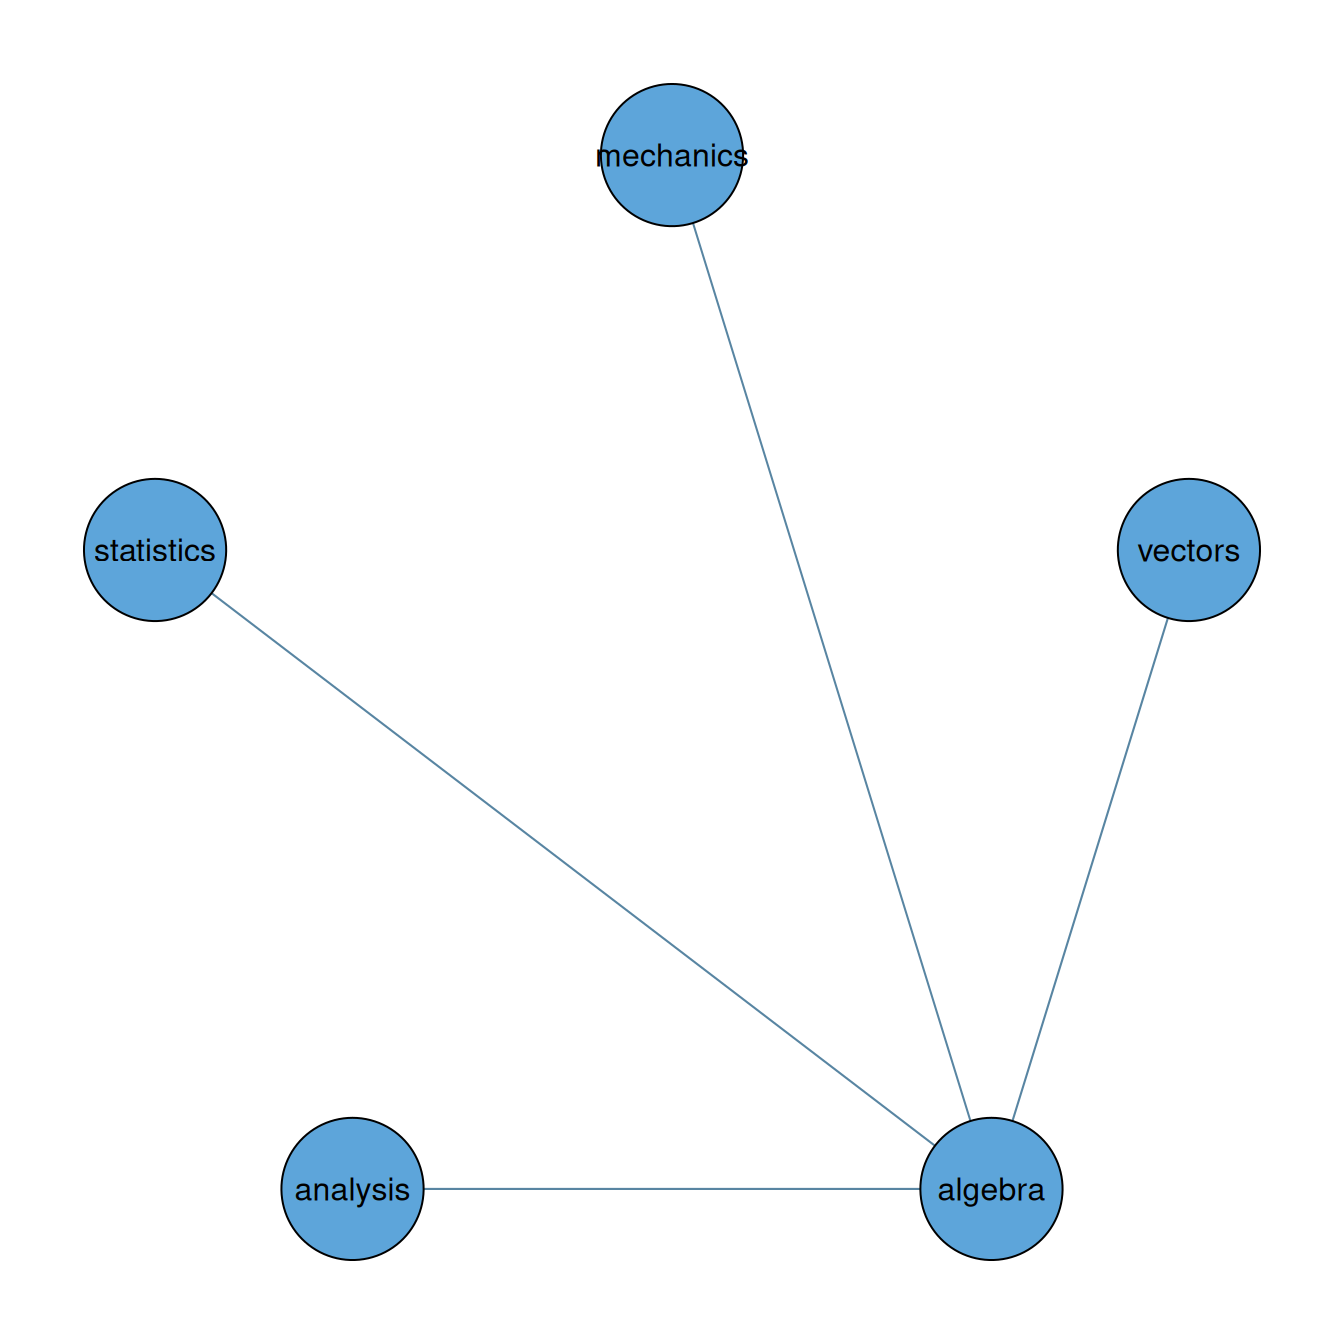
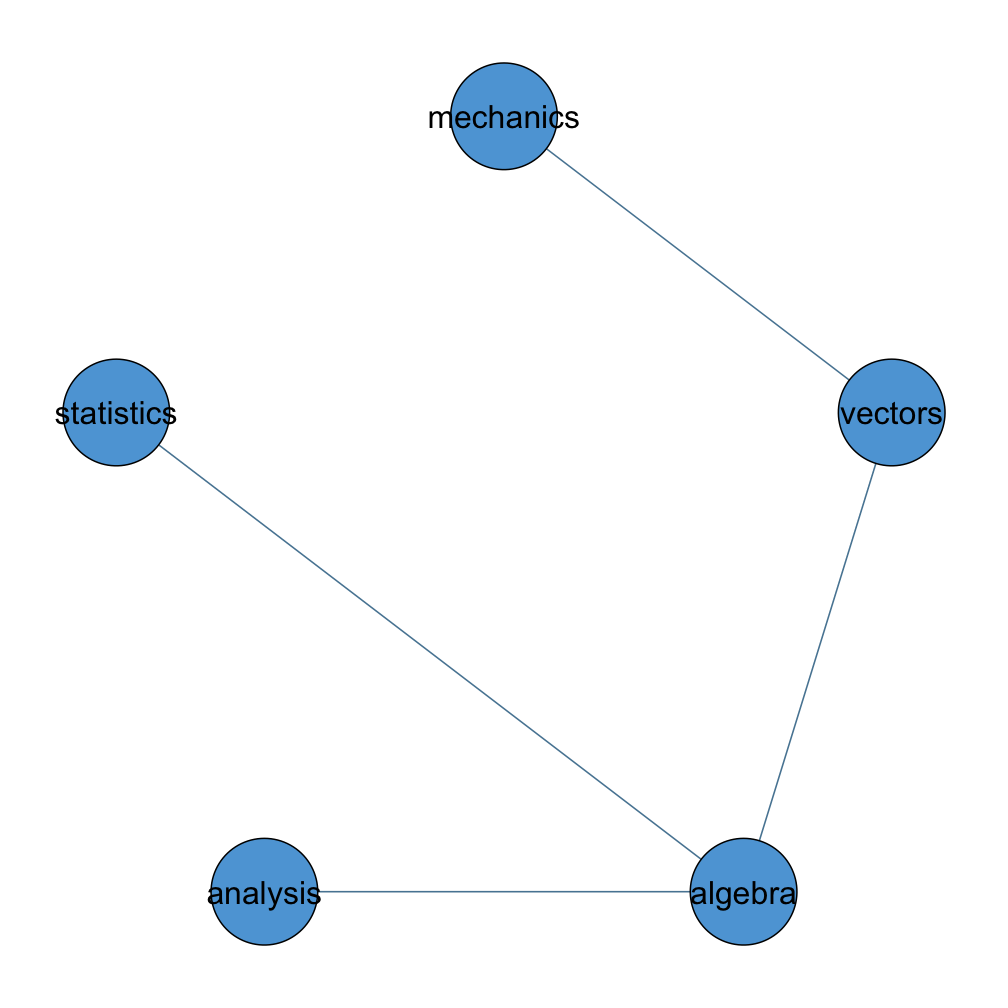
deploy: 5eff305b0f9381443d6ce932fa58d429704b1cf5

diff --git a/guide/getting-started.html b/guide/getting-started.html
@@ -597,23 +597,23 @@ div.csl-indent {
 <pre><code>Posterior summaries from Bayesian estimation:
 
 Category thresholds: 
-                mean  mcse    sd   n_eff  Rhat
-intrusion (1)  0.481 0.008 0.244 849.010 1.002
-intrusion (2) -1.887 0.013 0.353 685.881 1.005
-intrusion (3) -4.812 0.024 0.572 560.736 1.006
-intrusion (4) -9.467 0.037 0.906 605.623 1.005
-dreams (1)    -0.599 0.006 0.193 896.581 1.001
-dreams (2)    -3.796 0.014 0.361 697.001 1.004
+                mean  mcse    sd    n_eff  Rhat
+intrusion (1)  0.470 0.007 0.244 1103.335 1.001
+intrusion (2) -1.911 0.014 0.347  598.092 1.003
+intrusion (3) -4.857 0.025 0.558  502.555 1.003
+intrusion (4) -9.525 0.038 0.900  557.397 1.003
+dreams (1)    -0.591 0.006 0.195 1159.771 1.007
+dreams (2)    -3.780 0.012 0.359  850.323 1.012
 ... (use `summary(fit)$main` to see full output)
 
 Pairwise interactions:
                    mean  mcse    sd    n_eff n_eff_mixt  Rhat
-intrusion-dreams  0.314 0.001 0.034 1165.909            1.000
-intrusion-flash   0.169 0.001 0.032 1433.416            1.001
-intrusion-upset   0.097 0.003 0.037  182.327    141.315 1.036
-intrusion-physior 0.096 0.003 0.037  152.058    122.914 1.009
-dreams-flash      0.249 0.001 0.031 1438.002            1.000
-dreams-upset      0.114 0.002 0.030  666.101     223.74 1.022
+intrusion-dreams  0.314 0.001 0.035 1303.379            1.011
+intrusion-flash   0.170 0.001 0.033 1345.315            1.006
+intrusion-upset   0.097 0.003 0.037  437.558    196.221 1.029
+intrusion-physior 0.100 0.003 0.032  375.970    138.389 1.010
+dreams-flash      0.252 0.001 0.032 1327.208            1.003
+dreams-upset      0.113 0.001 0.028 1093.191   1023.494 1.000
 ... (use `summary(fit)$pairwise` to see full output)
 Note: NA values are suppressed in the print table. They occur here when an 
 indicator was zero across all iterations, so mcse/n_eff/n_eff_mixt/Rhat are undefined;
@@ -623,10 +623,10 @@ Inclusion probabilities:
                    mean  mcse    sd n0-&gt;0 n0-&gt;1 n1-&gt;0 n1-&gt;1 n_eff_mixt  Rhat
 intrusion-dreams  1.000       0.000     0     0     0  1999                 
 intrusion-flash   1.000       0.000     0     0     0  1999                 
-intrusion-upset   0.944 0.028 0.231   106     7     7  1879     67.887  1.14
-intrusion-physior 0.935 0.032 0.246   122     7     7  1863      59.74 1.033
+intrusion-upset   0.946 0.024 0.227   100     9     9  1881     91.318 1.156
+intrusion-physior 0.975 0.025 0.158    49     2     2  1946            1.168
 dreams-flash      1.000       0.000     0     0     0  1999                 
-dreams-upset      0.989 0.015 0.104    21     1     1  1976            1.301
+dreams-upset      0.999 0.001 0.032     1     1     1  1996            1.291
 ... (use `summary(fit)$indicator` to see full output)
 Note: NA values are suppressed in the print table. They occur when an indicator
 was constant or had fewer than 5 transitions, so n_eff_mixt is unreliable;
@@ -646,27 +646,27 @@ See the `easybgm` package for other summary and plotting tools.</code></pre>
 <div class="cell-output cell-output-stdout">
 <pre><code>$main
              cat (1)   cat (2)   cat (3)    cat (4)
-intrusion  0.4807844 -1.887276 -4.812235  -9.466882
-dreams    -0.5990120 -3.796343 -7.120031 -11.554333
-flash     -0.1010139 -2.563203 -5.356205  -9.657865
-upset      0.4130636 -1.311834 -3.387882  -7.056063
-physior   -0.6078418 -3.157839 -6.199070 -10.534263
+intrusion  0.4698311 -1.911163 -4.856581  -9.524646
+dreams    -0.5905234 -3.780086 -7.101203 -11.531746
+flash     -0.1100408 -2.586952 -5.400103  -9.741958
+upset      0.4146327 -1.311763 -3.376583  -7.041663
+physior   -0.6188232 -3.179556 -6.245554 -10.604088
 
 $pairwise
            intrusion      dreams       flash       upset     physior
-intrusion 0.00000000 0.314016539 0.169250494 0.097478982 0.095610613
-dreams    0.31401654 0.000000000 0.249094590 0.113843953 0.004991406
-flash     0.16925049 0.249094590 0.000000000 0.004239581 0.152961036
-upset     0.09747898 0.113843953 0.004239581 0.000000000 0.355081270
-physior   0.09561061 0.004991406 0.152961036 0.355081270 0.000000000
+intrusion 0.00000000 0.313666440 0.170222621 0.097213345 0.099811155
+dreams    0.31366644 0.000000000 0.251730425 0.112601006 0.003430553
+flash     0.17022262 0.251730425 0.000000000 0.004192279 0.153782540
+upset     0.09721334 0.112601006 0.004192279 0.000000000 0.355184144
+physior   0.09981116 0.003430553 0.153782540 0.355184144 0.000000000
 
 $indicator
           intrusion dreams  flash  upset physior
-intrusion    0.0000  1.000 1.0000 0.9435  0.9355
-dreams       1.0000  0.000 1.0000 0.9890  0.1050
-flash        1.0000  1.000 0.0000 0.0835  1.0000
-upset        0.9435  0.989 0.0835 0.0000  1.0000
-physior      0.9355  0.105 1.0000 1.0000  0.0000</code></pre>
+intrusion    0.0000  1.000 1.0000 0.9455  0.9745
+dreams       1.0000  0.000 1.0000 0.9990  0.0760
+flash        1.0000  1.000 0.0000 0.0865  1.0000
+upset        0.9455  0.999 0.0865 0.0000  1.0000
+physior      0.9745  0.076 1.0000 1.0000  0.0000</code></pre>
 </div>
 </div>
 <p><code>coef()</code> returns posterior mean matrices: <code>$pairwise</code> contains the partial associations and <code>$indicator</code> contains edge inclusion probabilities.</p>
@@ -693,7 +693,7 @@ physior      0.9355  0.105 1.0000 1.0000  0.0000</code></pre>
 <div class="cell-output-display">
 <div>
 <figure class="figure">
-<p><img src="getting-started_files/figure-html/unnamed-chunk-7-1.png" class="img-fluid figure-img" width="672"></p>
+<p><img src="getting-started_files/figure-html/unnamed-chunk-7-1.png" class="img-fluid figure-img" width="504"></p>
 </figure>
 </div>
 </div>
@@ -754,20 +754,20 @@ physior      0.9355  0.105 1.0000 1.0000  0.0000</code></pre>
 
 Residual variances:
                                   mean  mcse     sd    n_eff  Rhat
-mechanics (residual variance)  197.664 1.097 30.965  797.417 1.019
-vectors (residual variance)     96.512 2.087 19.207   84.678 1.000
-algebra (residual variance)     29.496 0.262  3.984  231.738 1.010
-analysis (residual variance)   105.351 0.362 16.204 1998.832 1.005
-statistics (residual variance) 162.572 0.545 25.496 2187.723 1.002
+mechanics (residual variance)  199.690 0.624 29.353 2209.332 1.005
+vectors (residual variance)     83.047 0.401 13.971 1213.725 1.085
+algebra (residual variance)     31.538 0.119  4.204 1248.653 1.010
+analysis (residual variance)   104.263 0.464 15.811 1160.907 1.001
+statistics (residual variance) 162.436 0.535 25.163 2209.373 1.001
 
 Pairwise interactions:
-                       mean  mcse    sd   n_eff n_eff_mixt  Rhat
-mechanics-vectors    -0.001     0 0.002  20.824     32.699 1.054
-mechanics-algebra    -0.003     0 0.002   32.47     58.378 1.008
-mechanics-analysis    0.000                2000            1.077
-mechanics-statistics  0.000                                1.291
-vectors-algebra      -0.007 0.001 0.002 846.801      18.63 1.124
-vectors-analysis      0.000                                1.292
+                       mean mcse    sd    n_eff n_eff_mixt  Rhat
+mechanics-vectors    -0.003    0 0.001 1032.494     76.123 1.276
+mechanics-algebra    -0.001    0 0.001              89.705 1.478
+mechanics-analysis    0.000                2000            1.187
+mechanics-statistics  0.000                2000            1.084
+vectors-algebra      -0.007    0 0.002 2191.098            1.001
+vectors-analysis      0.000            1537.282            1.173
 ... (use `summary(fit)$pairwise` to see full output)
 Note: NA values are suppressed in the print table. They occur here when an 
 indicator was zero across all iterations, so mcse/n_eff/n_eff_mixt/Rhat are undefined;
@@ -775,12 +775,12 @@ indicator was zero across all iterations, so mcse/n_eff/n_eff_mixt/Rhat are unde
 
 Inclusion probabilities:
                       mean  mcse    sd n0-&gt;0 n0-&gt;1 n1-&gt;0 n1-&gt;1 n_eff_mixt  Rhat
-mechanics-vectors    0.414 0.088 0.492  1157    15    15   812     31.423 1.060
-mechanics-algebra    0.690 0.064 0.463   599    22    22  1356     52.747 1.011
-mechanics-analysis   0.003 0.001 0.055  1987     6     6     0   2012.079 1.051
-mechanics-statistics 0.001 0.001 0.032  1995     2     2     0            1.291
-vectors-algebra      0.950 0.069 0.218    99     1     0  1899            1.348
-vectors-analysis     0.002 0.002 0.050  1993     1     2     3            1.293
+mechanics-vectors    0.904  0.04 0.294   182     9     9  1799     53.492 1.429
+mechanics-algebra    0.126 0.035 0.331  1729    19    19   232     90.483 1.501
+mechanics-analysis   0.002 0.001 0.050  1989     5     5     0   2010.055 1.019
+mechanics-statistics 0.001 0.001 0.032  1995     2     2     0            0.999
+vectors-algebra      1.000       0.000     0     0     0  1999                 
+vectors-analysis     0.002 0.001 0.039  1994     2     2     1            1.051
 ... (use `summary(fit)$indicator` to see full output)
 Note: NA values are suppressed in the print table. They occur when an indicator
 was constant or had fewer than 5 transitions, so n_eff_mixt is unreliable;
@@ -813,7 +813,7 @@ See the `easybgm` package for other summary and plotting tools.</code></pre>
 <div class="cell-output-display">
 <div>
 <figure class="figure">
-<p><img src="getting-started_files/figure-html/unnamed-chunk-13-1.png" class="img-fluid figure-img" width="672"></p>
+<p><img src="getting-started_files/figure-html/unnamed-chunk-13-1.png" class="img-fluid figure-img" width="504"></p>
 </figure>
 </div>
 </div>
